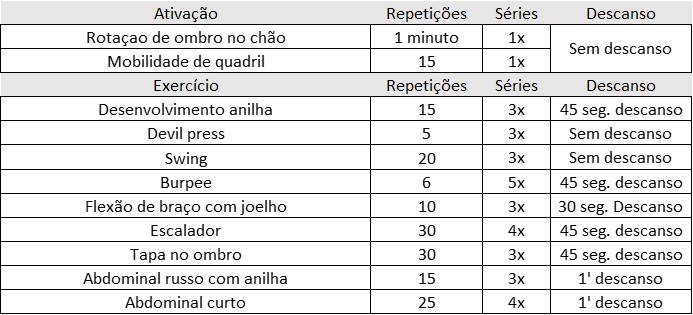
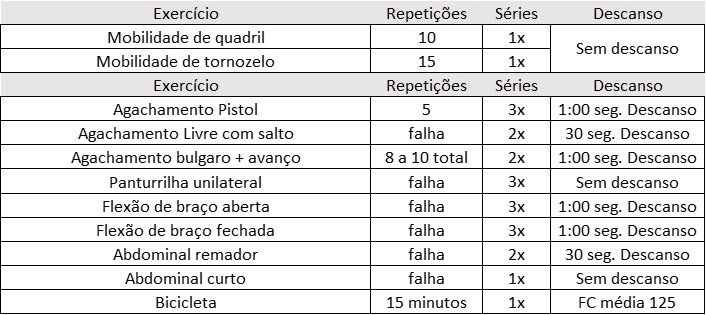
ana

diff --git a/docs/atletas/7055.html b/docs/atletas/7055.html
@@ -44,8 +44,8 @@
     </br>
         Objetivo: Melhoria do fôlego, diminuição de gordura abdominal, foco em mebros inferiores e glúteo.
         </br>
-        Característica: Os treinos terão características diversas, focados ao objetivo já mencionado e à rotina. Na semana é obrigatório
-        realizar pelo menos 2x cada treino, após isso, nos outros dias, fazer treino de bicicleta.
+        Característica: A característica do treino será diferente. Você terá o estímulo do elástico para ser o peso 
+        dos seus exercícios, portanto, quem controla a intensidade é você.
             </p>
             </div>
         </section>
@@ -63,9 +63,10 @@
             <header class="depoimento_conteudo bloco_cabecalho_degrade">Treino A</a></header>
             <div class="segundapagina espaco">   
                 <img class="shoot" src="../galeria/anaa.jpg">
-                <p>O treino A é o primeiro treino de braço e abdômen. Prestar bastance atenção na contração do abdomem
-                    e da coluna na hora de eexcução dos movimentos. Estar bem atenta na hora da realização dos exercícios
-                    em relação à respiração.
+                <p>Para o treino A, utilizaremos um novo equipamento que são os elásticos, regular a dificuldade 
+                    é através do quão tensionado você deixa ele. Fazer tudo bem feito e respeitar os descansos.
+                    Assim como a bicicleta no final do treino, o objetivo é acabar com uma freqência cardíaca 
+                    média de 135 batimentos por minuto.
             </p>
             <div class="galeria">
                 <iframe width="314" height="225" src="https://www.youtube.com/embed/6kDJ5QjvS-0"frameborder="0"
@@ -78,9 +79,9 @@
             <header class="depoimento_conteudo bloco_cabecalho_degrade">Treino B</a></header>
             <div class="segundapagina espaco">   
                 <img class="shoot" src="../galeria/anab.jpg">
-                <p>A característica do treino B é força e potência de membros superiores e abdômen,
-                     portanto fazer todos os exercícios com a maior atenção na execução possivel.
-                    Prestar bastante ateção na lombar, em todos os exercícios, deixar ela bem reta para não sobrecarregar.
+                <p>O treino B é mais intenso nos movimentos porém mais curto. Aproveitar bastante a execução e fazer tudo com 
+                    bastante amplitude. Assim como a bicicleta no final do treino, o objetivo é acabar com uma freqência cardíaca 
+                    média de 125 batimentos por minuto.
             </p>
             <div class="galeria">
                 <iframe width="314" height="225" src="https://www.youtube.com/embed/ZUeoHYqRt7I" frameborder="0"
@@ -89,7 +90,7 @@
             </div>
             </div>
         </section>
-        <section class="materias">
+        <!-- <section class="materias">
             <header class="depoimento_conteudo bloco_cabecalho_degrade">Treino C</a></header>
             <div class="segundapagina espaco">   
                 <img class="shoot" src="../galeria/anac.jpg">
@@ -104,7 +105,7 @@
                     allowfullscreen></iframe>
             </div>
             </div>
-        </section>
+        </section> -->
         
     
         <section class="contato bloco ">
